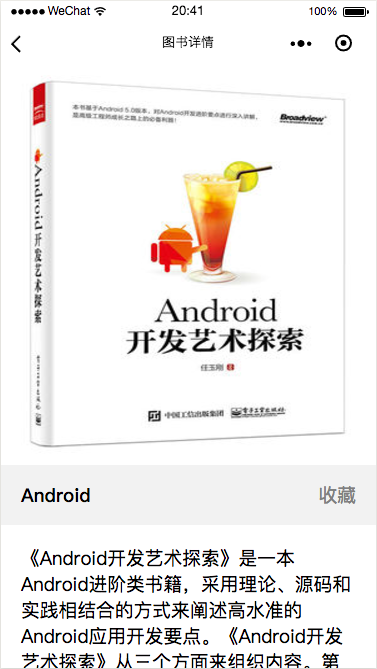
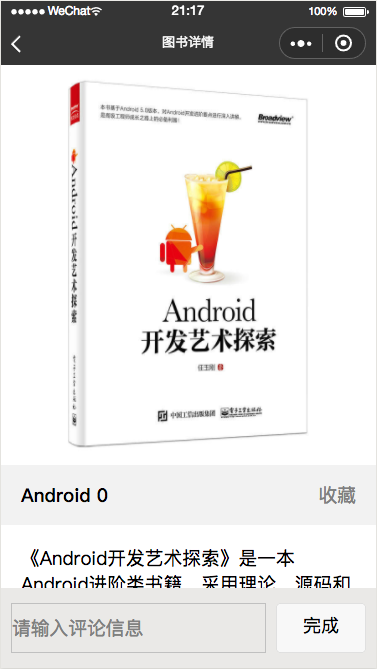
update

diff --git a/pages/detail/detail.js b/pages/detail/detail.js
@@ -113,12 +113,12 @@ Page({
     }
     return false;
   },
-  onCommentInput: function (e) {
+  onCommentInput: function (e) { //当评论输入框输入内容时回调
     this.setData({
       currentComment: e.detail.value
     });
   },
-  toSubmitComment: function () {
+  toSubmitComment: function () { //保存评论
     if (!this.data.currentComment) return;
     let comment = {
       username: this.data.userInfo.username,

diff --git a/INFO.md b/INFO.md
@@ -537,13 +537,27 @@ Page({
         <view class="favorite" bindtap="toFavorite">{{isMarked?'已收藏':'收藏'}}</view>
     </view>
     <view class="introduce">{{bookInfo.introduce}}</view>
+    <view class="comment-title-container">评论</view>
+    <view class="comment-info-container">
+        <block wx:if="{{commentList.length>0}}">
+            <view class="item" wx:for="{{commentList}}" data-item="{{item}}" wx:key="index" bindtap="onItemClick">
+                {{item.username}} : {{item.content}}
+            </view>
+        </block>
+        <view wx:else>暂无评论</view>
+    </view>
+</view>
+<!-- 底部评论框 -->
+<view class="comment-container">
+    <input class="input-comment" placeholder="请输入评论信息" confirm-type="done" bindinput="onCommentInput" value="{{currentComment}}" />
+    <button class="btn-submit" bindtap="toSubmitComment">完成</button>
 </view>
   ```
 
   页面样式代码如下：
 
   ```css
-  /* pages/detail/detail.wxss */
+ /* pages/detail/detail.wxss */
 .cover {
     width: 100%;
     height: 800rpx;
@@ -583,6 +597,52 @@ Page({
 .introduce {
     padding: 40rpx;
 }
+
+.comment-container {
+    width: 100%;
+    height: 160rpx;
+    background-color: #EAE9E7;
+    /* 使用 fixed 定位使 view 固定在底部 */
+    position: fixed;
+    left: 0;
+    bottom: 0;
+    /* 使用 flex 布局 */
+    display: flex;
+    /* 方向为纵向 */
+    flex-direction: row;
+    /* 设置为不可换行 */
+    flex-wrap: nowrap;
+    /* 从左右两端开始布局，中间留间隙 */
+    justify-content: space-between;
+    /* 垂直居中 */
+    align-content: center;
+    align-items: center;
+}
+
+.comment-container .input-comment {
+    flex-grow: 1;
+    height: 100rpx;
+    border: 1rpx solid silver;
+    margin-left: 20rpx;
+}
+
+.comment-container .btn-submit {
+    width: 180rpx;
+    height: 100rpx;
+    margin: 0 20rpx;
+}
+
+.comment-title-container {
+    font-weight: bold;
+    padding: 0 40rpx;
+    height: 120rpx;
+    background-color: #f2f2f2;
+    line-height: 120rpx;
+}
+
+.comment-info-container {
+    padding: 40rpx 40rpx 200rpx 40rpx;
+}
   ```
 
   业务逻辑代码如下：
@@ -601,10 +661,13 @@ Page({
     aiBookInfo: {}, // 模拟数据
     favoriteList: [],
     isMarked: false,
+    commentList: [],
+    currentComment: '',
+    userInfo: null,
   },
   onLoad: function (query) {
     //query 是通过 url 传过来的参数的集合
-    if (query.id & query.name) { //处理是否有 id 和 name
+    if (query.id && query.name) { //处理是否有 id 和 name
       //匹配模拟数据
       let bookInfo = {};
       if (query.id.indexOf('android_') != -1) {
@@ -633,6 +696,19 @@ Page({
       });
       this.setData({ //更新收藏状态
         isMarked: this.isMarked()
+      });
+    }
+    //读取评论列表
+    let commentList = wx.getStorageSync(this.data.id);
+    if (commentList) {
+      this.setData({
+        commentList: commentList
+      });
+    }
+    let userInfo = wx.getStorageSync(config.cacheKey.userInfo);
+    if (userInfo) {
+      this.setData({
+        userInfo: userInfo
       });
     }
   },
@@ -671,6 +747,30 @@ Page({
       }
     }
     return false;
+  },
+  onCommentInput: function (e) { //当评论输入框输入内容时回调
+    this.setData({
+      currentComment: e.detail.value
+    });
+  },
+  toSubmitComment: function () { //保存评论
+    if (!this.data.currentComment) return;
+    let comment = {
+      username: this.data.userInfo.username,
+      content: this.data.currentComment
+    };
+    let commentList = wx.getStorageSync(this.data.id);
+    if (!commentList) {
+      commentList = [];
+    }
+    commentList.push(comment);
+    this.setData({
+      commentList: commentList
+    });
+    wx.setStorageSync(this.data.id, commentList);
+    this.setData({
+      currentComment: ''
+    });
   }
 })
   ```
